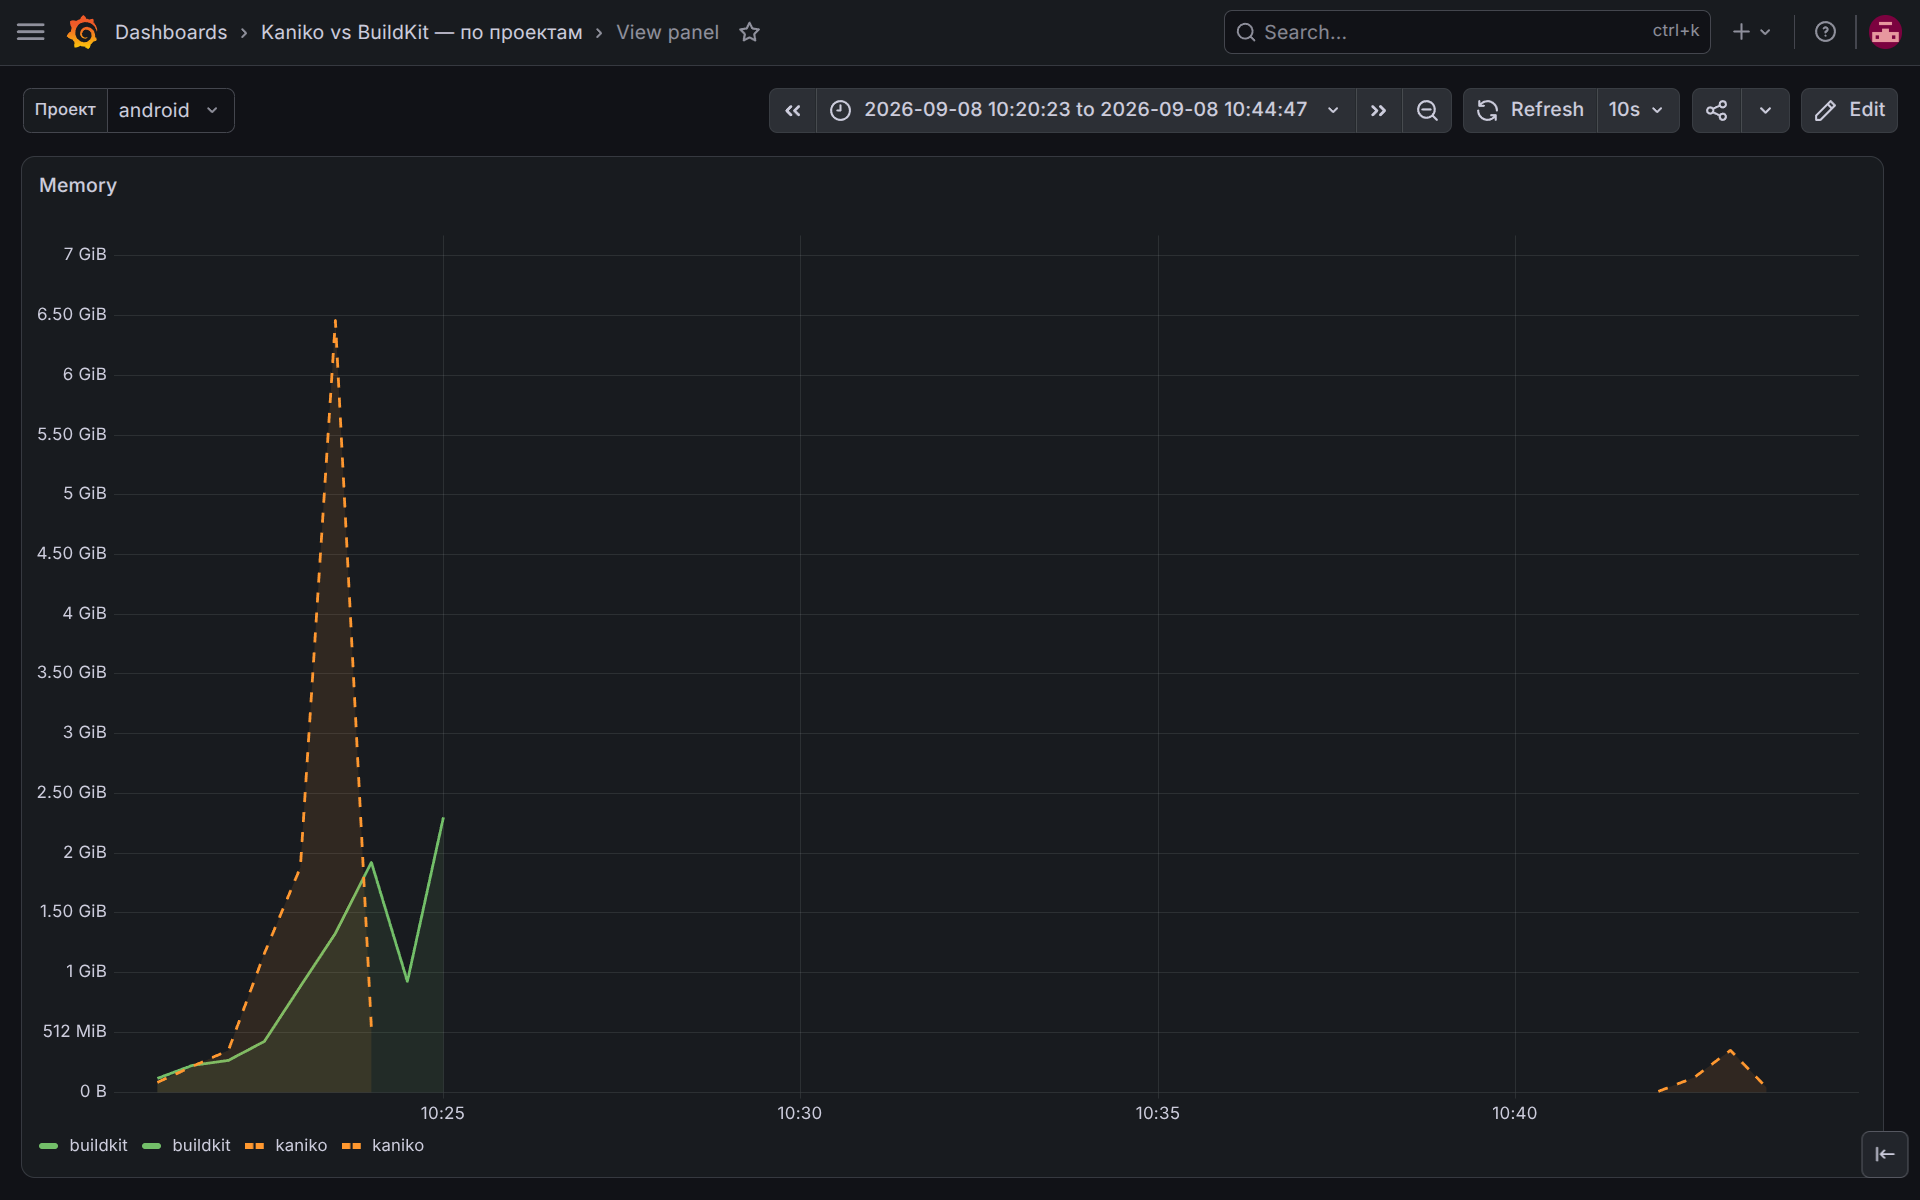
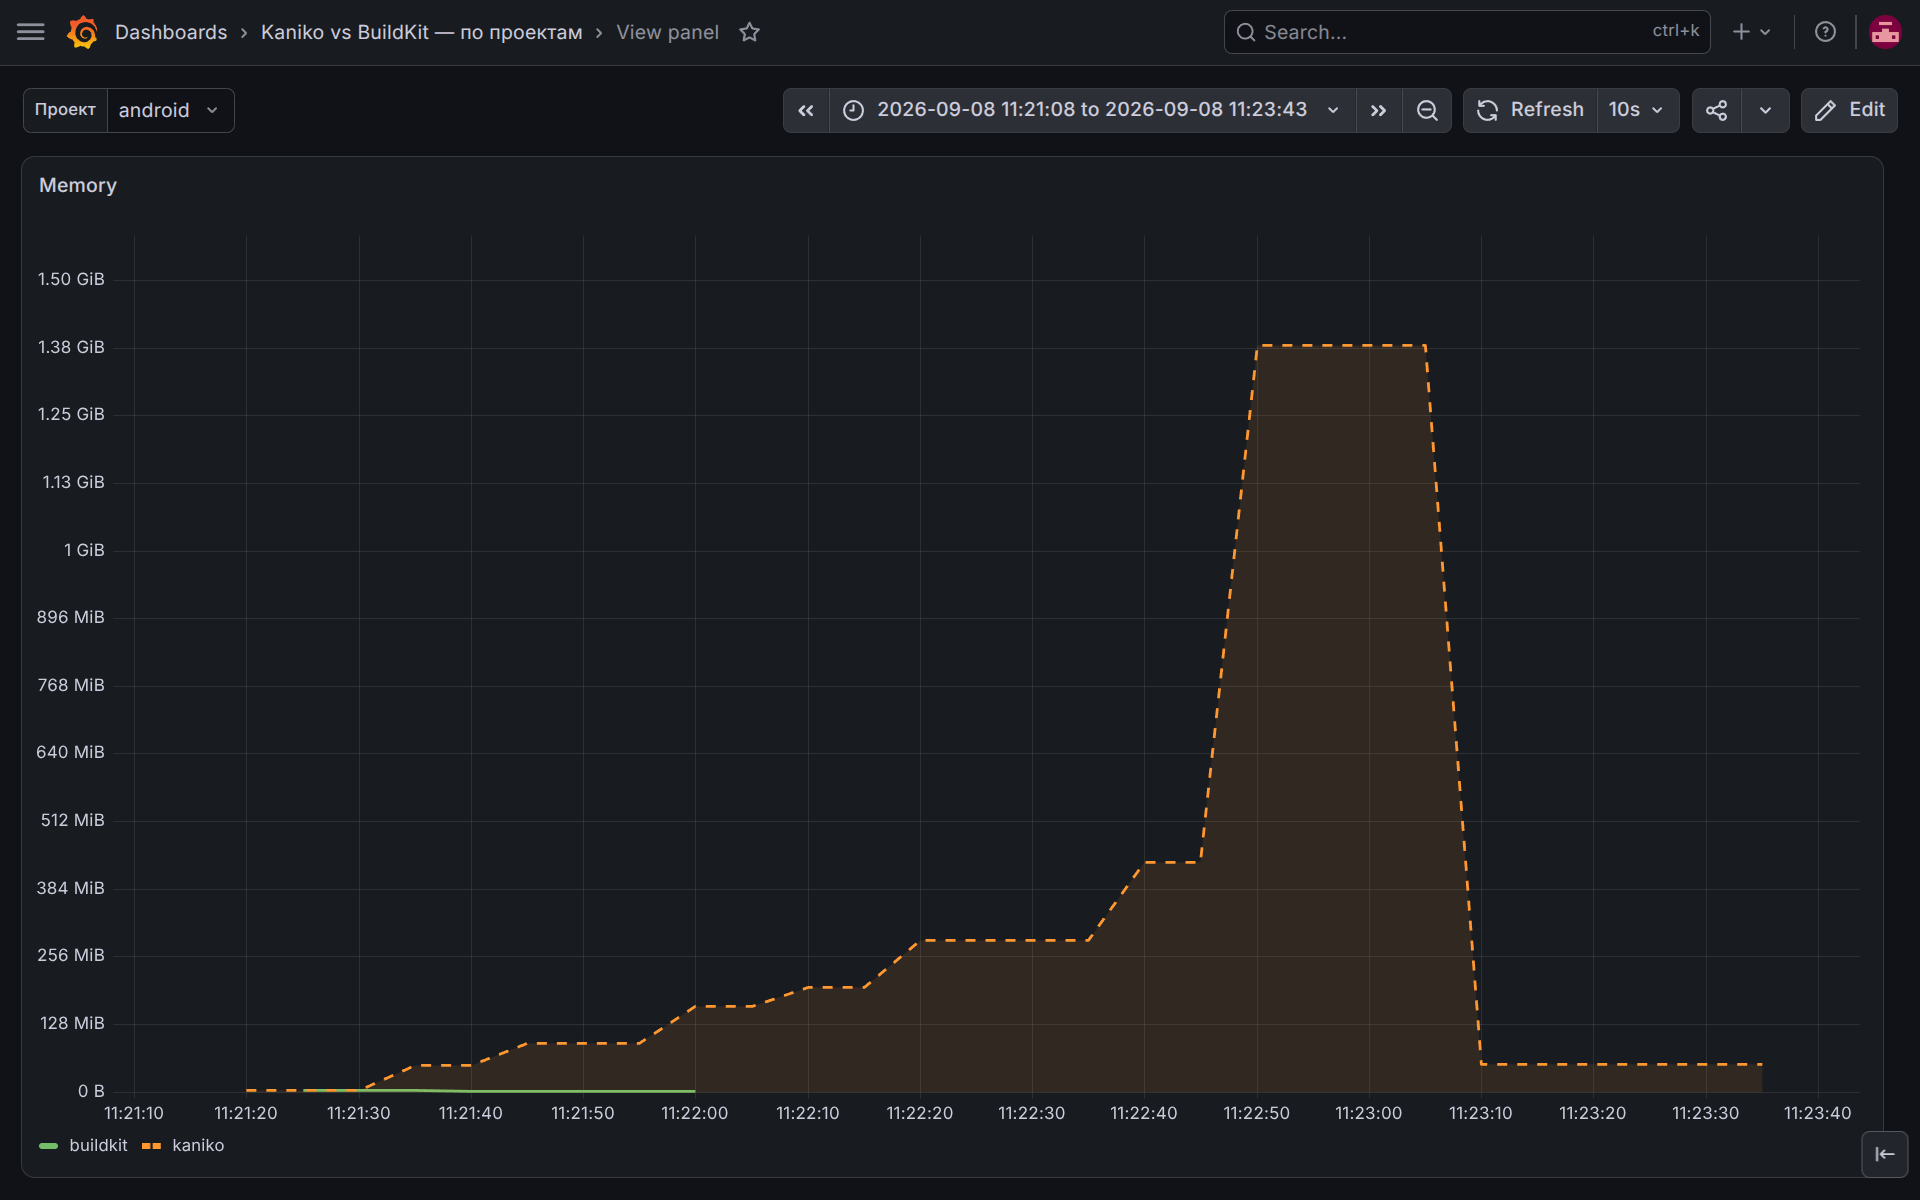
обновление скриншотов дашборда и вывода по CPU/RAM в README

diff --git a/README.md b/README.md
@@ -276,17 +276,25 @@ cAdvisor. Файл `dashboards/kaniko-vs-buildkit-per-project.json` — импо
 4. Снимите CPU/RAM с дашборда Grafana за соответствующий интервал.
 5. Внесите числа в таблицу ниже и сформулируйте вывод.
 
-### Итоговая сводная таблица (5 проектов)
+### Итоговая сводная таблица (тёплый кэш)
 
-Заполняется после реального прогона. Пример формата:
+Пайплайны 2026-09-08 (UTC): nextjs `2828297530`, nuxtjs `2828299988`, golang `2828302147`, android `2828303104`, ml-pytorch `2828305777`. CPU — пик `rate(...[15s])` build-контейнера, RAM — пик `container_memory_working_set_bytes`.
 
 | Проект | Время kaniko (с) | Время buildkit (с) | Выигрыш BuildKit % |
 |---|---|---|---|
-| nextjs | _заполнить_ | _заполнить_ | _заполнить_ |
-| nuxtjs | _заполнить_ | _заполнить_ | _заполнить_ |
-| golang | _заполнить_ | _заполнить_ | _заполнить_ |
-| android | _заполнить_ | _заполнить_ | _заполнить_ |
-| ml-pytorch | _заполнить_ | _заполнить_ | _заполнить_ |
+| nextjs | 75 | 13 | 83 |
+| nuxtjs | 50 | 13 | 74 |
+| golang | 33 | 13 | 61 |
+| android | 109 | 14 | 87 |
+| ml-pytorch | 289 | 19 | 93 |
+
+| Проект | CPU kaniko (cores) | CPU buildkit (cores) | RAM kaniko | RAM buildkit |
+|---|---|---|---|---|
+| nextjs | 1.94 | 0.04 | 1.55 GiB | 3.2 MiB |
+| nuxtjs | 1.52 | 0.04 | 1.18 GiB | 3.5 MiB |
+| golang | 0.67 | 0.05 | 88 MiB | 3.2 MiB |
+| android | 1.74 | 0.04 | 1.38 GiB | 3.2 MiB |
+| ml-pytorch | 1.78 | 0.04 | 10.87 GiB | 3.5 MiB |
 
 ### Детализация по метрикам (пример на проекте golang)
 
@@ -303,16 +311,20 @@ cAdvisor. Файл `dashboards/kaniko-vs-buildkit-per-project.json` — импо
 
 | Метрика | Kaniko | BuildKit |
 |---|---|---|
-| Время сборки (сек) | _заполнить_ | _заполнить_ |
-| Пиковый CPU (rate, cores) | _заполнить_ | _заполнить_ |
-| Пиковая RAM (working set, GiB) | _заполнить_ | _заполнить_ |
-| Ошибки/retries | _заполнить_ | _заполнить_ |
+| Время сборки (сек) | 33 | 13 |
+| Пиковый CPU (rate, cores) | 0.67 | 0.05 |
+| Пиковая RAM (working set) | 88 MiB | 3.2 MiB |
+| Ошибки/retries | нет | нет |
 
 ## Вывод
 
-Kaniko — «заниженный порог входа» для безопасной сборки без привилегий (без privileged); подходит, когда нужно просто и надёжно собрать типовой образ в managed-кластере. BuildKit — значительный прирост скорости и выразительности Dockerfile ценой сложности daemonless-настройки и большего потребления ресурсов. В этом бенчмарке оба инструмента работают **без privileged** в одинаковых условиях, поэтому разница сводится к скорости и кэшированию.
+На **тёплом registry-кэше** графики CPU и RAM однозначны: BuildKit почти не работает, Kaniko — работает.
 
-Итоговую рекомендацию нужно давать по числам из сводной таблицы: если сборка редкая и Dockerfile типовой, Kaniko достаточно; если собираете часто, образы тяжёлые (Node/Gradle/ML) и хочется скорости — BuildKit, но с правильной конфигурацией кэша и ресурсов.
+BuildKit на всех пяти проектах держит ~**0.04–0.05 CPU** и **~3 MiB RAM** (уровень простоя контейнера). Это cache hit: слои берутся из registry, локальной сборки нет. Kaniko на том же кэше всё равно грузит CPU (**0.67** на golang, **1.5–1.9** на Node/Android/ML) и держит большой working set: **88 MiB** (golang), **1.2–1.6 GiB** (nextjs/nuxtjs/android), **10.9 GiB** (ml-pytorch).
+
+Следствие по времени: BuildKit укладывается в **13–19 с** на любом профиле; Kaniko — от **33 с** (golang) до **289 с** (ml-pytorch). Разница не в «многопоточности под нагрузкой», а в том, что тёплый кэш BuildKit почти обнуляет работу, а Kaniko продолжает разворачивать слои и жечь CPU/RAM.
+
+Kaniko остаётся проще как «просто собрать без privileged». Для повторных сборок (CI на каждый коммит) по CPU, RAM и времени выигрывает BuildKit — особенно на тяжёлых образах (Android, ML).
 
 ## Очистка registry (перед `terraform destroy`)
 
